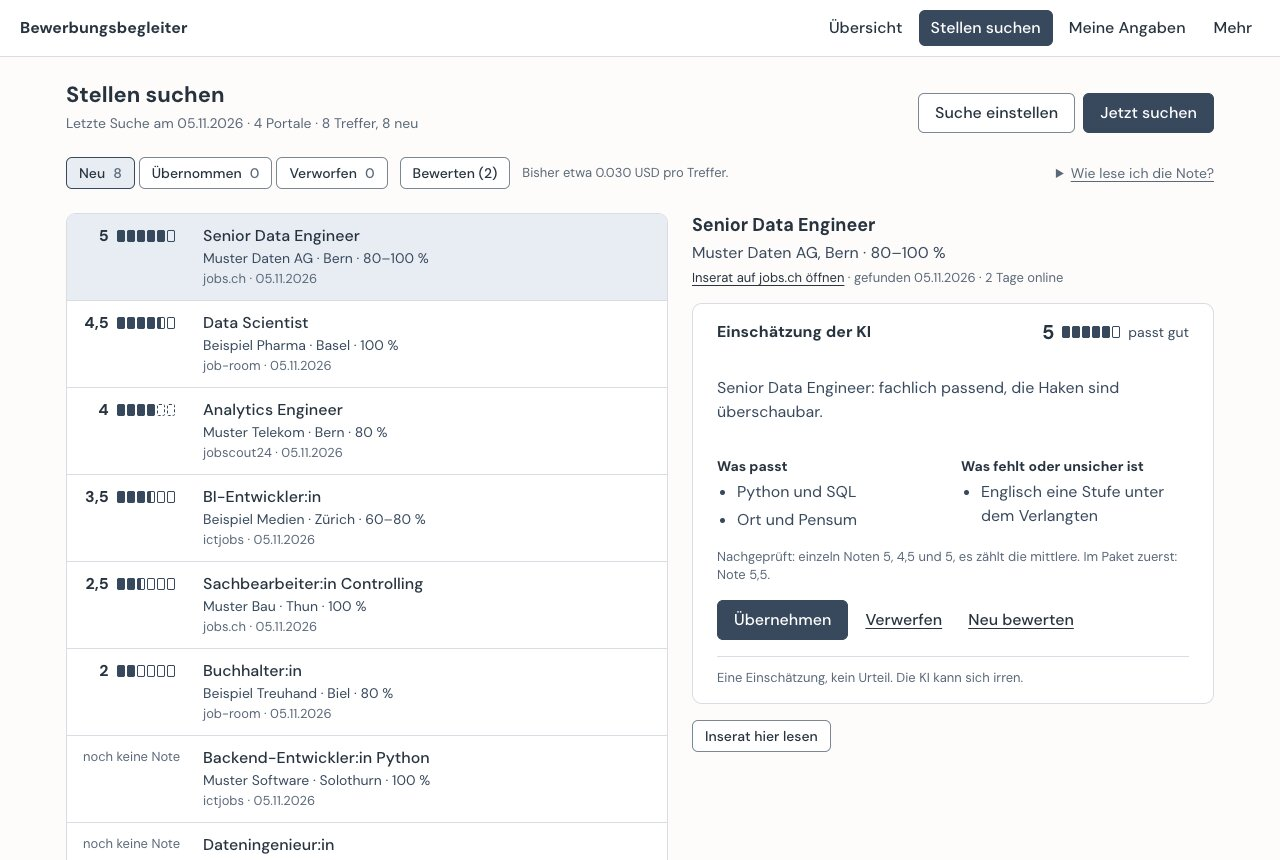
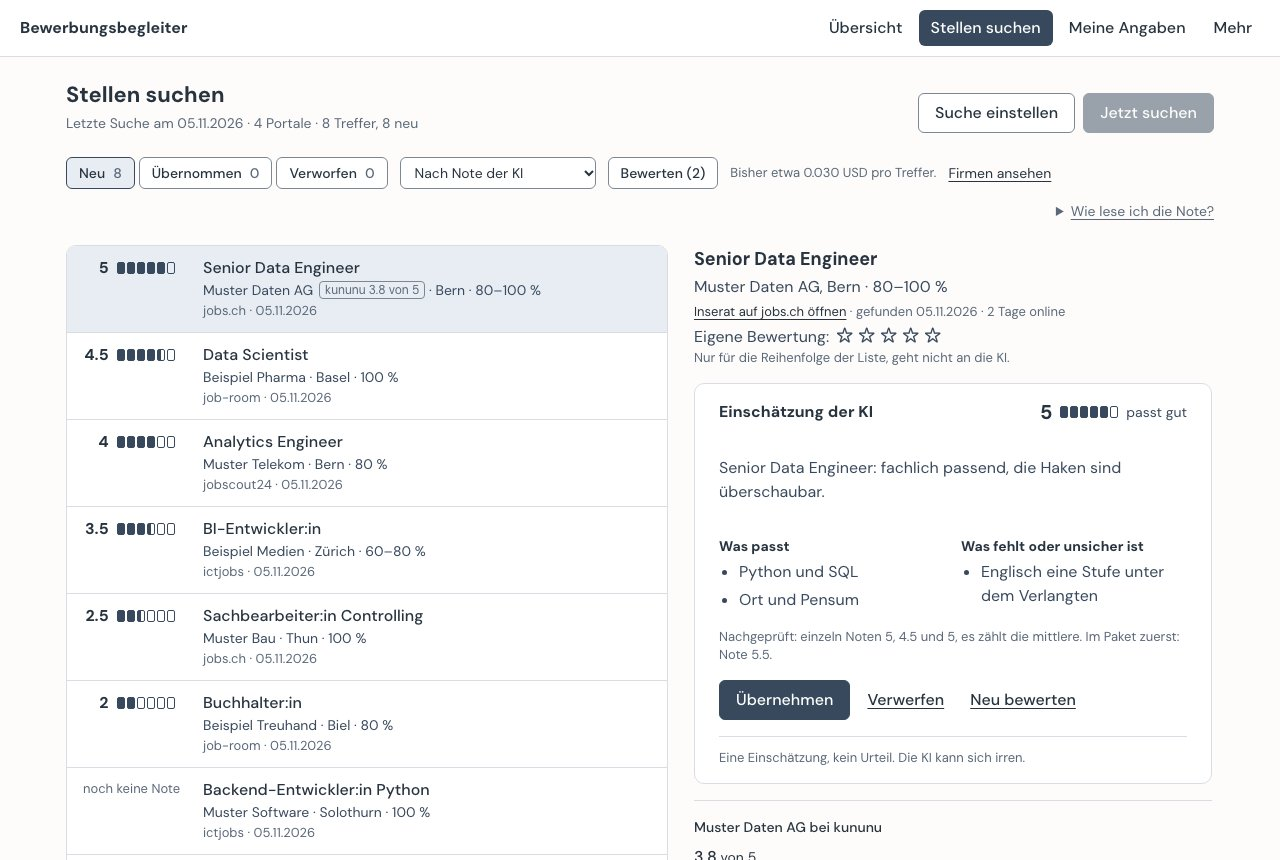
fix(bewerbungen): write grades with a decimal point everywhere [#221]
Pullboard-Item: #221

diff --git a/bewerbungen/seiten/firmen-logik.js b/bewerbungen/seiten/firmen-logik.js
@@ -190,9 +190,9 @@
     if (!firma) return null;
     const z = zustand(firma);
     const k = firma.kununu;
-    if (z === "gefunden") return { text: `kununu ${wert(k.wert)}`, vorlesen: `kununu ${wert(k.wert)} von 5, ${bewertungen(k.bewertungen)}`, art: "wert" };
+    if (z === "gefunden") return { text: `kununu ${wert(k.wert)} von 5`, vorlesen: `kununu ${wert(k.wert)} von 5, ${bewertungen(k.bewertungen)}`, art: "wert" };
     if (z === "wenige") {
-      return { text: `kununu ${wert(k.wert)}, wenige Bewertungen`, vorlesen: `kununu ${wert(k.wert)} von 5, nur ${bewertungen(k.bewertungen)}`, art: "wenige" };
+      return { text: `kununu ${wert(k.wert)} von 5, wenige Bewertungen`, vorlesen: `kununu ${wert(k.wert)} von 5, nur ${bewertungen(k.bewertungen)}`, art: "wenige" };
     }
     if (z === "mehrere") return { text: "kununu: wählen", vorlesen: "kununu: passende Firma wählen", art: "leise" };
     if (z === "nicht_gefunden") return { text: "nicht bei kununu", vorlesen: "bei kununu nicht gefunden", art: "leise" };

diff --git a/erweiterung/lib/page-ad.js b/erweiterung/lib/page-ad.js
@@ -199,7 +199,7 @@ function listLine(label, items) {
 export function describeCheck({ bewertung, vorhanden, hinweis }) {
   const known = vorhanden ? [{ text: `Schon im Register: ${vorhanden.firma} – ${vorhanden.stelle} (${vorhanden.status})`, problem: true }] : [];
   return {
-    titel: `Note ${String(bewertung.note).replace('.', ',')}`,
+    titel: `Note ${bewertung.note}`,
     zeilen: [
       ...known,
       ...(bewertung.zusammenfassung ? [{ text: bewertung.zusammenfassung }] : []),

diff --git a/bewerbungen/seiten/texte.js b/bewerbungen/seiten/texte.js
@@ -364,7 +364,8 @@
     return satzOder(satz) === "lehrstelle-du" && status === "Gespräch" ? "Einladung" : status;
   }
 
-  const notenText = note => String(note).replace(".", ",");
+  // A decimal point, as the design system says (4.5, never 4,5; abgleich #1).
+  const notenText = note => String(note);
 
   const texte = { SAETZE, VORGABE, TEXTE, satzOder, text, anwenden, statusName, notenText };
   if (typeof module !== "undefined") module.exports = texte;

diff --git a/bewerbungen/seiten/foto.html b/bewerbungen/seiten/foto.html
@@ -30,7 +30,7 @@
       <div id="kreis" tabindex="0" role="img" aria-label="Vorschau des Fotoausschnitts">
         <img id="gross" alt="">
       </div>
-      <div class="klein"><img id="klein" alt="Vorschau in etwa Druckgrösse"><span>etwa Druckgrösse (4,65 cm)</span></div>
+      <div class="klein"><img id="klein" alt="Vorschau in etwa Druckgrösse"><span>etwa Druckgrösse (4.65 cm)</span></div>
     </div>
 
     <div>

diff --git a/bewerbungen/seiten/dateien.js b/bewerbungen/seiten/dateien.js
@@ -11,7 +11,7 @@
   const message = (kind, text, type = "") => status(section(kind).querySelector(".status"), text, type);
 
   function sizeText(bytes) {
-    if (bytes >= BYTES_PER_MB) return `${(bytes / BYTES_PER_MB).toFixed(1).replace(".", ",")} MB`;
+    if (bytes >= BYTES_PER_MB) return `${(bytes / BYTES_PER_MB).toFixed(1)} MB`;
     return `${Math.max(1, Math.round(bytes / BYTES_PER_KB))} KB`;
   }
 

diff --git a/bewerbungen/tests/test_guide_companies.py b/bewerbungen/tests/test_guide_companies.py
@@ -41,8 +41,8 @@ def test_the_guide_says_how_to_assign_a_company_or_enter_a_value_by_hand():
 def test_every_name_in_bold_is_shown_by_the_app():
     shown = "\n".join((PAGES / name).read_text(encoding="utf-8") for name in SOURCES)
     names = set(re.findall(r"\*\*([^*]+)\*\*", _section()))
-    # „kununu 3.8“ is an example of the badge, built from „kununu “ and the value
-    missing = [name for name in names - {"kununu 3.8"} if name not in shown]
+    # „kununu 3.8 von 5“ is an example of the badge, built from „kununu “ and the value
+    missing = [name for name in names - {"kununu 3.8 von 5"} if name not in shown]
 
     assert missing == []
     assert "`kununu ${" in shown

diff --git a/docs/design/firmen.md b/docs/design/firmen.md
@@ -15,7 +15,7 @@ Sie gehen dem Vorschlag unten vor:
 ## Entscheide zuerst
 
 1. **Hauptort: eine neue Seite «Firmen»** (bei Lehrstellen «Lehrbetriebe»), eine Zeile pro Firma aus allen Treffern und Bewerbungen. Darum gebeten hat der Inhaber, und nur eine eigene Seite hat Platz für die Zustände, die Wahl bei mehreren Treffern und die Prüfung in einem Durchgang. Gruppiert wird nach dem bestehenden Firmen-Schlüssel (`company_key`). Eine Wahl der Person gilt darum für alle Treffer dieser Firma und wird nur einmal gefragt.
-2. **Nebenort: Stellen suchen.** In der Trefferzeile steht eine kleine Marke «kununu 3.8» gleich nach dem Firmennamen. In der Detailspalte folgt unter der KI-Karte eine Firmenzeile mit dem Link «Bei kununu ansehen». Dort wird entschieden, ob man einen Treffer übernimmt, also gehört der Wert dorthin.
+2. **Nebenort: Stellen suchen.** In der Trefferzeile steht eine kleine Marke «kununu 3.8 von 5» gleich nach dem Firmennamen. In der Detailspalte folgt unter der KI-Karte eine Firmenzeile mit dem Link «Bei kununu ansehen». Dort wird entschieden, ob man einen Treffer übernimmt, also gehört der Wert dorthin.
 3. **Nicht auf die Übersicht, kein Block auf der Bewerbung.** Die Tabelle der Übersicht hat schon fünf Spalten und eine Note. Eine zweite Zahl daneben macht sie lauter und lädt dazu ein, laufende Bewerbungen nach dem Ruf der Firma zu ordnen, obwohl der Entscheid längst gefallen ist. Auf der Bewerbung darf der Wert «Firma» in der Seitenspalte zur Zeile auf «Firmen» verlinken, aber ohne Wert dort.
 4. **Zugang:** im Menü «Mehr» als erster Eintrag («Firmen») und als leiser Link «Firmen ansehen» in der Leiste von Stellen suchen. Die Hauptnavigation behält drei Punkte, denn sie folgt dem Ablauf.
 5. **Nicht mit der Note zu verwechseln** (Details unten): Die Note der App bleibt die einzige Zahl mit Balken, Akzentfarbe und Wort. kununu erscheint nie ohne das Wort «kununu» und den Zusatz «von 5», nie mit Balken oder Sternen und nie in Akzent, Grün oder Rot.
@@ -27,7 +27,7 @@ Sie gehen dem Vorschlag unten vor:
 | Teil | Firmen-Seite | Trefferzeile | Detailspalte |
 | --- | --- | --- | --- |
 | Name, Ort | ja | (steht schon da) | ja |
-| kununu-Wert 1–5, eine Stelle nach dem Punkt | «3.8 von 5» | «kununu 3.8» | «3.8 von 5» |
+| kununu-Wert 1–5, eine Stelle nach dem Punkt | «3.8 von 5» | «kununu 3.8 von 5» | «3.8 von 5» |
 | Anzahl Bewertungen | «214 Bewertungen» | nur für Bildschirmleser | ja |
 | Weiterempfehlung | «78 % empfehlen» | nein | ja |
 | Geprüft am | «05.11.2026», ab 90 Tagen «Stand …» mit «Neu prüfen» | nein | ja |
@@ -96,7 +96,7 @@ Neutral, wo es geht. Die Spalte «Stellen mit du» entspricht der Spalte du, nur
 | Knöpfe, Links | Prüfen · Neu prüfen · Nochmals prüfen · Bei kununu ansehen · Bei kununu suchen · Selbst zuordnen · Passende wählen · Zuordnen · Abbrechen | gleich |
 | Auswahl | Welche ist Beispiel Holding AG, Zürich? · Keine davon passt · Ort und Anzahl Bewertungen helfen beim Wählen. | gleich |
 | Dialog | Welche kununu-Seite gehört zu Testlogistik GmbH? · Link zur Firma bei kununu · Bei kununu die Firma öffnen und den Link aus der Adresszeile kopieren. · Das ist kein Link zu einer Firma bei kununu. | … · Link zum Lehrbetrieb bei kununu · Bei kununu den Lehrbetrieb öffnen … · … zu einem Lehrbetrieb bei kununu. |
-| Trefferzeile | kununu 3.8 · kununu 4.6, wenige Bewertungen · kununu: wählen · nicht bei kununu | gleich |
+| Trefferzeile | kununu 3.8 von 5 · kununu 4.6 von 5, wenige Bewertungen · kununu: wählen · nicht bei kununu | gleich |
 | Detailspalte | Muster Industrie AG bei kununu · Geprüft am 05.11.2026 · Alle Firmen · Noch nicht bei kununu geprüft. · Jetzt prüfen | … · Alle Lehrbetriebe |
 | Hilfe, Titel | Wie lese ich kununu? | gleich |
 | Hilfe, Text | Auf kununu bewerten heutige und frühere Mitarbeitende ihre Firma: 5 ist der beste Wert, 1 der schlechteste. Unter 10 Bewertungen sagt der Wert wenig. Die Note der App sagt dagegen, wie gut eine Stelle zu Ihren Angaben passt. | … ihren Lehrbetrieb … wie gut eine Lehrstelle zu deinen Angaben passt. |
@@ -112,7 +112,7 @@ Neutral, wo es geht. Die Spalte «Stellen mit du» entspricht der Spalte du, nur
 - Die Trefferzeile ist ein `<button>`. Darin darf kein Link stehen. Die Marke ist darum nur Text, und ihr Wortlaut für Bildschirmleser gehört zum Namen des Knopfs. Der Link steht in der Detailspalte.
 - Jeder externe Link nennt die Firma und sagt «öffnet neuen Tab» (`visually-hidden`), mit `target="_blank" rel="noopener noreferrer"`. Symbole gibt es keine, wie im System vorgesehen.
 - Prüfen meldet sich über `role=status` / `aria-live="polite"` in der Zeile, ein Durchgang über `Progress`. «Passende wählen» trägt `aria-expanded`. Beim Aufklappen springt der Fokus auf die Legende, nach «Zuordnen» zurück auf die Zeile, wo eine Status-Zeile das Ergebnis meldet.
-- Die Tabelle ist eine `table` mit `th scope`. Unter 760 px wird jede Zeile zur Karte (vorhandene Container-Abfrage von `DataTable`, `data-label`). Die Knöpfe sind dann 40 px hoch und brechen um. Die Marke in der Trefferzeile darf umbrechen, aber nie mitten in «kununu 3.8» (`white-space: nowrap`).
+- Die Tabelle ist eine `table` mit `th scope`. Unter 760 px wird jede Zeile zur Karte (vorhandene Container-Abfrage von `DataTable`, `data-label`). Die Knöpfe sind dann 40 px hoch und brechen um. Die Marke in der Trefferzeile darf umbrechen, aber nie mitten in «kununu 3.8 von 5» (`white-space: nowrap`).
 
 ## Offene Fragen an Andy
 

diff --git a/README.md b/README.md
@@ -28,11 +28,11 @@ Alle Bilder zeigen frei erfundene Beispieldaten.
 
 **Übersicht der Bewerbungen:** Was als Nächstes ansteht, dazu Stand, Passung (Note 1–6) und nächster Schritt jeder Stelle auf einen Blick. Von hier aus bewerben Sie sich über die Formulare der Firmen und tragen abgeschickte Bewerbungen im Job-Room ein; speichern und abschicken tun immer Sie.
 
-![Übersicht mit „Das steht an“: der nächste Schritt als Karte, daneben, was auch noch offen ist, darunter die Liste der gemerkten Bewerbungen mit Stand, Note und nächstem Schritt; Knöpfe für Gemerkt, Beworben, Abgeschlossen und Alle](docs/bilder/uebersicht.jpg)
+![Übersicht mit „Das steht an“: der nächste Schritt als Karte, daneben, was auch noch offen ist, darunter die Liste der Bewerbungen, auf die die Person wartet, mit Stand, Note und nächstem Schritt; Knöpfe für Gemerkt, Beworben, Abgeschlossen und Alle](docs/bilder/uebersicht.jpg)
 
 **Stellensuche:** Die Browser-Erweiterung sucht auf job-room, jobs.ch, jobscout24 und ictjobs nach dem Suchprofil, bei einem Suchprofil für Lehrstellen auf LENA und yousty, wahlweise nach Lehrstellen, Schnupperlehren oder beidem. Neue Stellen landen hier, nicht direkt im Register. Die KI bewertet die Passung in Paketen von zehn, nach der Suche von selbst (höchstens 30 pro Suche, abschaltbar) oder auf Knopfdruck. Bei Lehrstellen zählt der eigene Beruf mit Sternen zuerst. Dieselbe Stelle von einem zweiten Portal ist angehängt (+1), und bei einer Firma mit laufender Bewerbung steht ein Hinweis. Inserate von anderen Seiten, etwa LinkedIn, prüft oder speichert die Erweiterung auf Klick.
 
-![Seite Stellen suchen: links die Liste der Treffer mit Note, Firma, Ort, Pensum und Portal, rechts die Einschätzung der KI zum gewählten Treffer mit den Knöpfen Übernehmen, Verwerfen und Neu bewerten](docs/bilder/treffer.jpg)
+![Seite Stellen suchen: links die Liste der Treffer mit Note, Firma, dem Wert bei kununu, Ort, Pensum und Portal, rechts die Einschätzung der KI zum gewählten Treffer mit den Knöpfen Übernehmen, Verwerfen und Neu bewerten](docs/bilder/treffer.jpg)
 
 **Eine Bewerbung in sechs Schritten:** Von der Stelle bis zum Festhalten sehen Sie, wo die Bewerbung steht und was als Nächstes kommt. Ein Anschreiben der KI geht erst weiter, wenn Sie es gelesen und freigegeben haben.
 

diff --git a/docs/installation.md b/docs/installation.md
@@ -190,7 +190,7 @@ Auf kununu bewerten heutige und frühere Mitarbeitende ihre Firma, bei Lehrbetri
 
 Die App fragt kununu nur, wenn Sie auf **Prüfen** klicken, nie von selbst. An kununu geht dabei nur der Firmenname; Ihre Angaben bleiben auf diesem Computer. Mit der Erweiterung liest die App Wert und Anzahl Bewertungen in einem Tab und trägt sie ein. Ohne Erweiterung öffnet **Prüfen** die Firma bei kununu in einem neuen Tab, und Sie lesen den Wert dort selbst.
 
-Auf **Stellen suchen** steht der Wert als **kununu 3.8** nach dem Firmennamen, gestrichelt bei wenigen Bewertungen. Neben dem Treffer zeigt eine Zeile Wert, Bewertungen und Datum, dazu **Bei kununu ansehen** oder **Jetzt prüfen**. **Jetzt prüfen** tut dasselbe wie **Prüfen** auf der Seite **Firmen**.
+Auf **Stellen suchen** steht der Wert als **kununu 3.8 von 5** nach dem Firmennamen, gestrichelt bei wenigen Bewertungen. Neben dem Treffer zeigt eine Zeile Wert, Bewertungen und Datum, dazu **Bei kununu ansehen** oder **Jetzt prüfen**. **Jetzt prüfen** tut dasselbe wie **Prüfen** auf der Seite **Firmen**.
 
 Lässt sich kein Wert lesen, zum Beispiel weil kununu eine Prüfseite zeigt, bleibt der Tab offen. Klicken Sie dann auf der Seite **Firmen** auf **Von Hand eintragen**; den Knopf hat jede Firma ohne Wert und jede, deren Wert älter als 90 Tage ist. Geben Sie den Wert und die Anzahl Bewertungen so ein, wie sie bei kununu stehen, und klicken Sie auf **Eintragen**.
 

diff --git a/docs/design/abgleich.md b/docs/design/abgleich.md
@@ -16,7 +16,7 @@ Wer die App mit du nutzt, las an einigen Stellen trotzdem Sie:
 
 | # | Thema | Design | App | Vorschlag |
 | --- | --- | --- | --- | --- |
-| 1 | Noten und Dezimalzahlen | `4.5`, „nie 4,5“ | App `4,5` (bewusst, c50db93), Popup der Erweiterung `4.5`, Foto `4,65 cm` neben `1.20×` | Eine Schreibweise überall. Punkt passt zum Design, Komma zum heutigen Test. |
+| 1 | Noten und Dezimalzahlen | `4.5`, „nie 4,5“ | App `4,5` (bewusst, c50db93), Popup der Erweiterung `4.5`, Foto `4,65 cm` neben `1.20×` | Entschieden (10.11.2026, #221): Punkt überall, wie im Design: Note der KI, kununu („kununu 3.8 von 5“), Foto und Dateigrössen. |
 | 2 | Währung der Kosten | CHF | USD, wie Anthropic abrechnet | USD lassen, bis die Vermittlung in CHF abrechnet. |
 | 3 | Kosten pro Antwort | „Claude · CHF 0.01“ im Fuss von KI-Karten und Popup | nur die Kostenzeile der Suche und die Summen in den Einstellungen | offen |
 | 4 | Seitenrand | 32 px oben, 24 px seitlich | 24 px oben, 16 px seitlich | Design übernehmen; kleine Änderung. |
